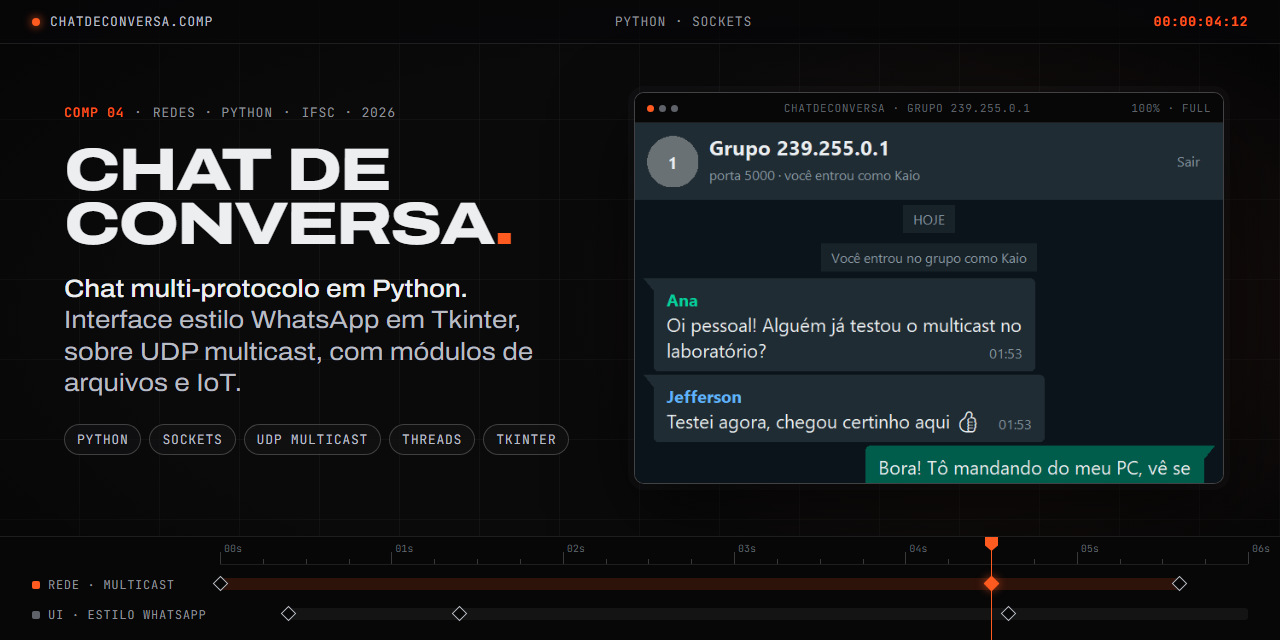
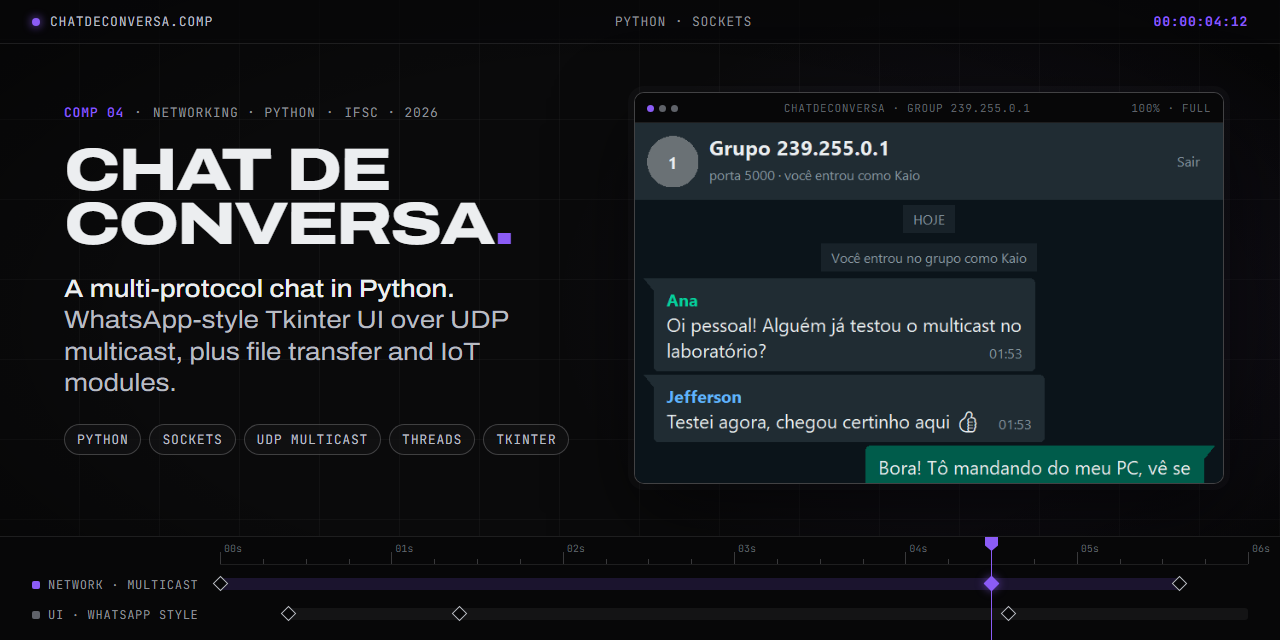
Make English the default README, add pt-BR version and violet cover
README.md is now in English with a language switcher at the top;
the Portuguese text moved to README.pt-BR.md. The cover image uses the
new violet accent and English copy.

diff --git a/README.md b/README.md
@@ -1,41 +1,49 @@
-<img src=".github/cover.png" width="100%" alt="ChatDeConversa: chat multi-protocolo em Python com multicast UDP, transferência de arquivos e IoT, com interface em Tkinter.">
+<div align="center">
+
+**English** · [Português (Brasil)](README.pt-BR.md)
+
+</div>
+
+<img src=".github/cover.png" width="100%" alt="ChatDeConversa: a multi-protocol Python chat with UDP multicast, file transfer and IoT, and a WhatsApp-style Tkinter interface.">
 
 # ChatDeConversa
 
-Aplicação de chat multi-protocolo em Python, feita como projeto prático do curso de Ciências da Computação no IFSC.
+A multi-protocol chat application in Python, built as a hands-on project for the Computer Science program at IFSC (Federal Institute of Santa Catarina, Brazil).
 
-O app principal é um chat em grupo sobre **UDP multicast** com interface no **estilo WhatsApp**, feita em **Tkinter**: tela de entrada com nome, grupo e porta, e uma conversa com balões, nome colorido de cada pessoa, horário e os dois checks azuis quando a sua mensagem chega no grupo. Não tem servidor: cada mensagem vai direto para todo mundo da rede local que entrou no mesmo grupo (padrão `239.255.0.1`, porta `5000`). Os outros módulos exploram mais dois protocolos: **transferência de arquivos** cliente/servidor e um par cliente/servidor de **IoT** configurado por filial.
+The main app is a group chat over **UDP multicast** with a **WhatsApp-style** interface built in **Tkinter**: an entry screen with name, group and port, and a conversation view with bubbles, a colour per sender, timestamps and blue double checks once your message reaches the group. There is no server: each message goes straight to everyone on the local network who joined the same group (default `239.255.0.1`, port `5000`). The other modules explore two more protocols: client/server **file transfer** and an **IoT** client/server pair configured per branch office.
 
 <p align="center">
-  <img src="docs/login.png" width="38%" alt="Tela de entrada do ChatDeConversa: nome, grupo multicast e porta, com botão verde Entrar no grupo.">
+  <img src="docs/login.png" width="38%" alt="ChatDeConversa entry screen: name, multicast group and port, with a green Join group button.">
   &nbsp;
-  <img src="docs/chat.png" width="38%" alt="Conversa em grupo no estilo WhatsApp: balões cinza de outras pessoas com nome colorido, balões verdes enviados com horário e dois checks azuis.">
+  <img src="docs/chat.png" width="38%" alt="WhatsApp-style group chat: grey bubbles from other people with coloured names, green sent bubbles with timestamps and blue double checks.">
 </p>
 
-### Como funciona a interface
+<sub>The interface text is in Portuguese.</sub>
 
-- **Balões** desenhados num `Canvas`, com cantos arredondados e a pontinha do lado de quem enviou.
-- **Dois checks azuis**: cada mensagem leva um `id`; quando o eco do multicast volta para quem enviou, o ✓ vira ✓✓.
-- **Thread-safe**: a thread de rede só coloca o que chega numa `queue.Queue`; a interface lê a fila com `after()`, sem tocar no Tkinter fora da thread principal.
-- **Compatível** com o formato antigo de mensagem (`date`, `time`, `username`, `message`): os campos novos (`id`, `client`) são opcionais.
-- **Nítido em telas com escala** (Windows com 125% ou 150%).
+### How the interface works
 
-## Módulos
+- **Bubbles** drawn on a `Canvas`, with rounded corners and a tail on the sender's side.
+- **Blue double checks**: every message carries an `id`; when the multicast echo comes back to the sender, ✓ turns into ✓✓.
+- **Thread-safe**: the network thread only puts incoming messages on a `queue.Queue`; the UI drains the queue with `after()` and never touches Tkinter from another thread.
+- **Backward compatible** with the old message format (`date`, `time`, `username`, `message`); the new fields (`id`, `client`) are optional.
+- **Sharp on scaled displays** (Windows at 125% or 150%).
 
-| Pasta | O que faz |
+## Modules
+
+| Folder | What it does |
 | :-- | :-- |
-| `MainChat.py` | Ponto de entrada: abre o chat. |
-| `chat/` | `ChatApp.py`: interface estilo WhatsApp e a rede multicast (envio, recepção em thread, confirmação de entrega). |
-| `ftp/` | `FileServer.py` e `FileClient.py`, envio e recebimento de arquivos por socket. |
-| `iot/` | `IoTServer.py` e `IoTClient.py`, com configurações por filial em JSON. |
+| `MainChat.py` | Entry point: opens the chat. |
+| `chat/` | `ChatApp.py`: the WhatsApp-style UI and the multicast networking (sending, threaded receiving, delivery checks). |
+| `ftp/` | `FileServer.py` and `FileClient.py`, sending and receiving files over sockets. |
+| `iot/` | `IoTServer.py` and `IoTClient.py`, with per-branch JSON configs. |
 
-## Tecnologias
+## Technologies
 
-- **Python** só com a biblioteca padrão: `socket`, `threading`, `queue`, `json`, `tkinter`
-- **UDP multicast** para o chat em grupo
-- **TCP** para a transferência de arquivos e **UDP** para o módulo IoT
+- **Python** with the standard library only: `socket`, `threading`, `queue`, `json`, `tkinter`
+- **UDP multicast** for the group chat
+- **TCP** for file transfer and **UDP** for the IoT module
 
-## Como executar
+## Running it
 
 ```bash
 git clone https://github.com/KaioHomem/ChatDeConversa.git
@@ -43,10 +51,10 @@ cd ChatDeConversa
 python MainChat.py
 ```
 
-Abra em duas máquinas (ou dois terminais) na mesma rede, conecte no mesmo grupo e porta, e converse.
+Open it on two machines (or two terminals) on the same network, join the same group and port, and chat.
 
-## Autor
+## Author
 
-**Kaio Felipe Homem** · [Portfólio](https://kaiohomem.github.io) · [GitHub](https://github.com/KaioHomem)
+**Kaio Felipe Homem** · [Portfolio](https://kaiohomem.github.io) · [GitHub](https://github.com/KaioHomem)
 
-<sub>Projeto acadêmico · IFSC · Ciências da Computação</sub>
+<sub>Academic project · IFSC · Computer Science</sub>

diff --git a/README.pt-BR.md b/README.pt-BR.md
@@ -1,0 +1,58 @@
+<div align="center">
+
+[English](README.md) · **Português (Brasil)**
+
+</div>
+
+<img src=".github/cover.png" width="100%" alt="ChatDeConversa: chat multi-protocolo em Python com multicast UDP, transferência de arquivos e IoT, com interface em Tkinter.">
+
+# ChatDeConversa
+
+Aplicação de chat multi-protocolo em Python, feita como projeto prático do curso de Ciências da Computação no IFSC.
+
+O app principal é um chat em grupo sobre **UDP multicast** com interface no **estilo WhatsApp**, feita em **Tkinter**: tela de entrada com nome, grupo e porta, e uma conversa com balões, nome colorido de cada pessoa, horário e os dois checks azuis quando a sua mensagem chega no grupo. Não tem servidor: cada mensagem vai direto para todo mundo da rede local que entrou no mesmo grupo (padrão `239.255.0.1`, porta `5000`). Os outros módulos exploram mais dois protocolos: **transferência de arquivos** cliente/servidor e um par cliente/servidor de **IoT** configurado por filial.
+
+<p align="center">
+  <img src="docs/login.png" width="38%" alt="Tela de entrada do ChatDeConversa: nome, grupo multicast e porta, com botão verde Entrar no grupo.">
+  &nbsp;
+  <img src="docs/chat.png" width="38%" alt="Conversa em grupo no estilo WhatsApp: balões cinza de outras pessoas com nome colorido, balões verdes enviados com horário e dois checks azuis.">
+</p>
+
+### Como funciona a interface
+
+- **Balões** desenhados num `Canvas`, com cantos arredondados e a pontinha do lado de quem enviou.
+- **Dois checks azuis**: cada mensagem leva um `id`; quando o eco do multicast volta para quem enviou, o ✓ vira ✓✓.
+- **Thread-safe**: a thread de rede só coloca o que chega numa `queue.Queue`; a interface lê a fila com `after()`, sem tocar no Tkinter fora da thread principal.
+- **Compatível** com o formato antigo de mensagem (`date`, `time`, `username`, `message`): os campos novos (`id`, `client`) são opcionais.
+- **Nítido em telas com escala** (Windows com 125% ou 150%).
+
+## Módulos
+
+| Pasta | O que faz |
+| :-- | :-- |
+| `MainChat.py` | Ponto de entrada: abre o chat. |
+| `chat/` | `ChatApp.py`: interface estilo WhatsApp e a rede multicast (envio, recepção em thread, confirmação de entrega). |
+| `ftp/` | `FileServer.py` e `FileClient.py`, envio e recebimento de arquivos por socket. |
+| `iot/` | `IoTServer.py` e `IoTClient.py`, com configurações por filial em JSON. |
+
+## Tecnologias
+
+- **Python** só com a biblioteca padrão: `socket`, `threading`, `queue`, `json`, `tkinter`
+- **UDP multicast** para o chat em grupo
+- **TCP** para a transferência de arquivos e **UDP** para o módulo IoT
+
+## Como executar
+
+```bash
+git clone https://github.com/KaioHomem/ChatDeConversa.git
+cd ChatDeConversa
+python MainChat.py
+```
+
+Abra em duas máquinas (ou dois terminais) na mesma rede, conecte no mesmo grupo e porta, e converse.
+
+## Autor
+
+**Kaio Felipe Homem** · [Portfólio](https://kaiohomem.github.io) · [GitHub](https://github.com/KaioHomem)
+
+<sub>Projeto acadêmico · IFSC · Ciências da Computação</sub>
